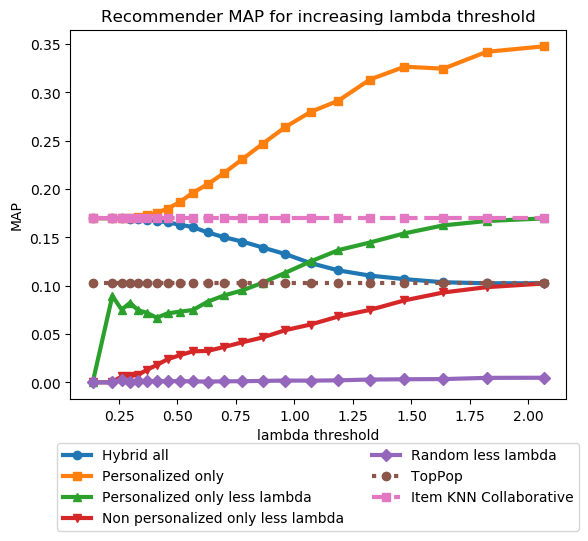
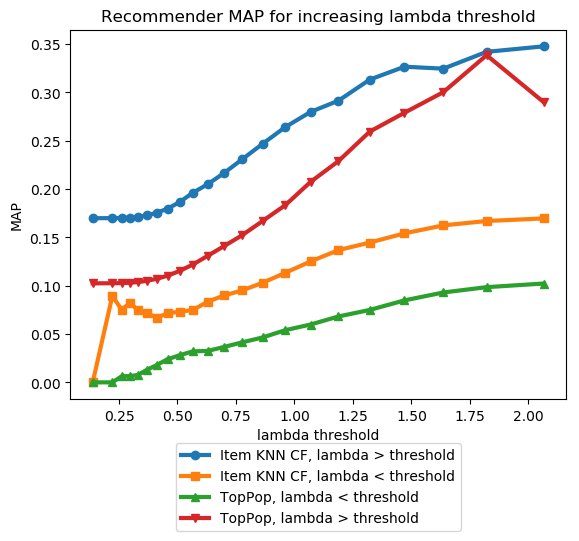
.

diff --git a/run_performance_lambda_threshold.py b/run_performance_lambda_threshold.py
@@ -313,6 +313,7 @@ def plot_hybrid_performance_inner(dataReader_class, use_lambda):
     map_performance_pers_only = []
     map_performance_pers_only_less = []
     map_performance_non_pers_only_less = []
+    map_performance_non_pers_only_over = []
     map_performance_random_less = []
 
     map_performance_pers_only_less_train_subset = []
@@ -347,6 +348,9 @@ def plot_hybrid_performance_inner(dataReader_class, use_lambda):
 
         lambda_threshold = user_lambda[lambda_threshold_index]
 
+        if lambda_threshold >= 6:
+            break
+
 
 
         hybrid_all.set_lambda_threshold(lambda_threshold)
@@ -360,6 +364,13 @@ def plot_hybrid_performance_inner(dataReader_class, use_lambda):
 
         results_pers_only = hybrid_pers_only.evaluateRecommendations(URM_test, at=5, exclude_seen=True, filterCustomUsers=users_with_lower_lambda)
         print("Lambda threshold is {}, result pers only: {}".format(lambda_threshold, results_pers_only))
+
+        non_pers_only_over = non_personalized_recommender.evaluateRecommendations(URM_test, at=5, exclude_seen=True, filterCustomUsers=users_with_lower_lambda)
+        print("Lambda threshold is {}, result non pers over: {}".format(lambda_threshold, non_pers_only_over))
+
+
+
+
 
         users_with_higher_lambda = hybrid_all.get_lambda_values()>lambda_threshold
         users_with_higher_lambda = np.arange(0, len(user_lambda), dtype=np.int)[users_with_higher_lambda]
@@ -408,6 +419,9 @@ def plot_hybrid_performance_inner(dataReader_class, use_lambda):
         map_performance_pers_only.append(results_pers_only["map"])
         map_performance_pers_only_less.append(results_pers_only_less["map"])
         map_performance_non_pers_only_less.append(results_non_pers_only_less["map"])
+        map_performance_non_pers_only_over.append(non_pers_only_over["map"])
+
+
         map_performance_random_less.append(results_random_less["map"])
 
         map_performance_pers_only_less_train_subset.append(results_pers_only_less_train_subset["map"])
@@ -430,29 +444,32 @@ def plot_hybrid_performance_inner(dataReader_class, use_lambda):
         marker_iterator_local = itertools.cycle(marker_list)
 
 
-        plt.plot(x_tick, map_performance_hybrid_all, linewidth=3, label="Hybrid all",
+        # plt.plot(x_tick, map_performance_hybrid_all, linewidth=3, label="Hybrid all",
+        #          linestyle = "-", marker = marker_iterator_local.__next__())
+
+        plt.plot(x_tick, map_performance_pers_only, linewidth=3, label="Item KNN CF, lambda > threshold",
                  linestyle = "-", marker = marker_iterator_local.__next__())
 
-        plt.plot(x_tick, map_performance_pers_only, linewidth=3, label="Personalized only",
+        plt.plot(x_tick, map_performance_pers_only_less, linewidth=3, label="Item KNN CF, lambda < threshold",
                  linestyle = "-", marker = marker_iterator_local.__next__())
 
-        plt.plot(x_tick, map_performance_pers_only_less, linewidth=3, label="Personalized only less lambda",
+        plt.plot(x_tick, map_performance_non_pers_only_less, linewidth=3, label="TopPop, lambda < threshold",
                  linestyle = "-", marker = marker_iterator_local.__next__())
 
-        plt.plot(x_tick, map_performance_non_pers_only_less, linewidth=3, label="Non personalized only less lambda",
+        plt.plot(x_tick, map_performance_non_pers_only_over, linewidth=3, label="TopPop, lambda > threshold",
                  linestyle = "-", marker = marker_iterator_local.__next__())
 
-        plt.plot(x_tick, map_performance_random_less, linewidth=3, label="Random less lambda",
-                 linestyle = "-", marker = marker_iterator_local.__next__())
+        # plt.plot(x_tick, map_performance_random_less, linewidth=3, label="Random less lambda",
+        #          linestyle = "-", marker = marker_iterator_local.__next__())
 
 
-        plt.plot(x_tick, np.ones_like(x_tick)*results_run_non_pers["map"], linewidth=3, label="TopPop",
-                 linestyle = ":", marker = marker_iterator_local.__next__())
+        # plt.plot(x_tick, np.ones_like(x_tick)*results_run_non_pers["map"], linewidth=3, label="TopPop",
+        #          linestyle = ":", marker = marker_iterator_local.__next__())
 
-        plt.plot(x_tick, np.ones_like(x_tick)*results_run_pers["map"], linewidth=3, label="Item KNN Collaborative",
-                 linestyle = "--", marker = marker_iterator_local.__next__())
+        # plt.plot(x_tick, np.ones_like(x_tick)*results_run_pers["map"], linewidth=3, label="Item KNN CF",
+        #          linestyle = "--", marker = marker_iterator_local.__next__())
 
-        legend = plt.legend(loc=9, bbox_to_anchor=(0.5, -0.1), ncol=2)
+        legend = plt.legend(loc=9, bbox_to_anchor=(0.5, -0.1), ncol=1)
         legend = [legend]
 
         if use_lambda:
@@ -469,54 +486,54 @@ def plot_hybrid_performance_inner(dataReader_class, use_lambda):
 
 
 
-
-
-
-        # Turn interactive plotting off
-        plt.ioff()
-
-        # Ensure it works even on SSH
-        plt.switch_backend('agg')
-
-
-        plt.xlabel('lambda threshold')
-        plt.ylabel("MAP")
-        plt.title("Recommender MAP for increasing lambda threshold")
-
-        marker_list = ['o', 's', '^', 'v', 'D']
-        marker_iterator_local = itertools.cycle(marker_list)
-
-
-        plt.plot(x_tick, map_performance_hybrid_all, linewidth=3, label="Hybrid all",
-                 linestyle = "-", marker = marker_iterator_local.__next__())
-
-        plt.plot(x_tick, map_performance_pers_only_train_subset, linewidth=3, label="Personalized only",
-                 linestyle = "-", marker = marker_iterator_local.__next__())
-
-        plt.plot(x_tick, map_performance_pers_only_less_train_subset, linewidth=3, label="Personalized only less lambda",
-                 linestyle = "-", marker = marker_iterator_local.__next__())
-
-        plt.plot(x_tick, map_performance_non_pers_only_less_train_subset, linewidth=3, label="Non personalized only less lambda",
-                 linestyle = "-", marker = marker_iterator_local.__next__())
-
-        plt.plot(x_tick, map_performance_random_less, linewidth=3, label="Random less lambda",
-                 linestyle = "-", marker = marker_iterator_local.__next__())
-
-
-        plt.plot(x_tick, np.ones_like(x_tick)*results_run_non_pers["map"], linewidth=3, label="TopPop",
-                 linestyle = ":", marker = marker_iterator_local.__next__())
-
-        plt.plot(x_tick, np.ones_like(x_tick)*results_run_pers["map"], linewidth=3, label="Item KNN Collaborative",
-                 linestyle = "--", marker = marker_iterator_local.__next__())
-
-        legend = plt.legend(loc=9, bbox_to_anchor=(0.5, -0.1), ncol=2)
-        legend = [legend]
-
-        plt.savefig("results/MAP_over_lambda_{}_{}_{}_train_on_subset{}".format(dataset_name,
-            personalized_recommender.RECOMMENDER_NAME, non_personalized_recommender.RECOMMENDER_NAME, discrminant_is),
-            additional_artists=legend, bbox_inches="tight")
-
-        plt.close()
+        #
+        #
+        #
+        # # Turn interactive plotting off
+        # plt.ioff()
+        #
+        # # Ensure it works even on SSH
+        # plt.switch_backend('agg')
+        #
+        #
+        # plt.xlabel('lambda threshold')
+        # plt.ylabel("MAP")
+        # plt.title("Recommender MAP for increasing lambda threshold")
+        #
+        # marker_list = ['o', 's', '^', 'v', 'D']
+        # marker_iterator_local = itertools.cycle(marker_list)
+        #
+        #
+        # plt.plot(x_tick, map_performance_hybrid_all, linewidth=3, label="Hybrid all",
+        #          linestyle = "-", marker = marker_iterator_local.__next__())
+        #
+        # plt.plot(x_tick, map_performance_pers_only_train_subset, linewidth=3, label="Personalized only",
+        #          linestyle = "-", marker = marker_iterator_local.__next__())
+        #
+        # plt.plot(x_tick, map_performance_pers_only_less_train_subset, linewidth=3, label="Personalized only less lambda",
+        #          linestyle = "-", marker = marker_iterator_local.__next__())
+        #
+        # plt.plot(x_tick, map_performance_non_pers_only_less_train_subset, linewidth=3, label="Non personalized only less lambda",
+        #          linestyle = "-", marker = marker_iterator_local.__next__())
+        #
+        # plt.plot(x_tick, map_performance_random_less, linewidth=3, label="Random less lambda",
+        #          linestyle = "-", marker = marker_iterator_local.__next__())
+        #
+        #
+        # plt.plot(x_tick, np.ones_like(x_tick)*results_run_non_pers["map"], linewidth=3, label="TopPop",
+        #          linestyle = ":", marker = marker_iterator_local.__next__())
+        #
+        # plt.plot(x_tick, np.ones_like(x_tick)*results_run_pers["map"], linewidth=3, label="Item KNN Collaborative",
+        #          linestyle = "--", marker = marker_iterator_local.__next__())
+        #
+        # legend = plt.legend(loc=9, bbox_to_anchor=(0.5, -0.1), ncol=2)
+        # legend = [legend]
+        #
+        # plt.savefig("results/MAP_over_lambda_{}_{}_{}_train_on_subset{}".format(dataset_name,
+        #     personalized_recommender.RECOMMENDER_NAME, non_personalized_recommender.RECOMMENDER_NAME, discrminant_is),
+        #     additional_artists=legend, bbox_inches="tight")
+        #
+        # plt.close()
 
 
 import multiprocessing, traceback
@@ -524,7 +541,7 @@ import multiprocessing, traceback
 if __name__ == '__main__':
 
     dataReader_class_list = [
-        Movielens1MReader,
+        #Movielens1MReader,
         Movielens10MReader,
         #NetflixEnhancedReader,
         #BookCrossingReader,
